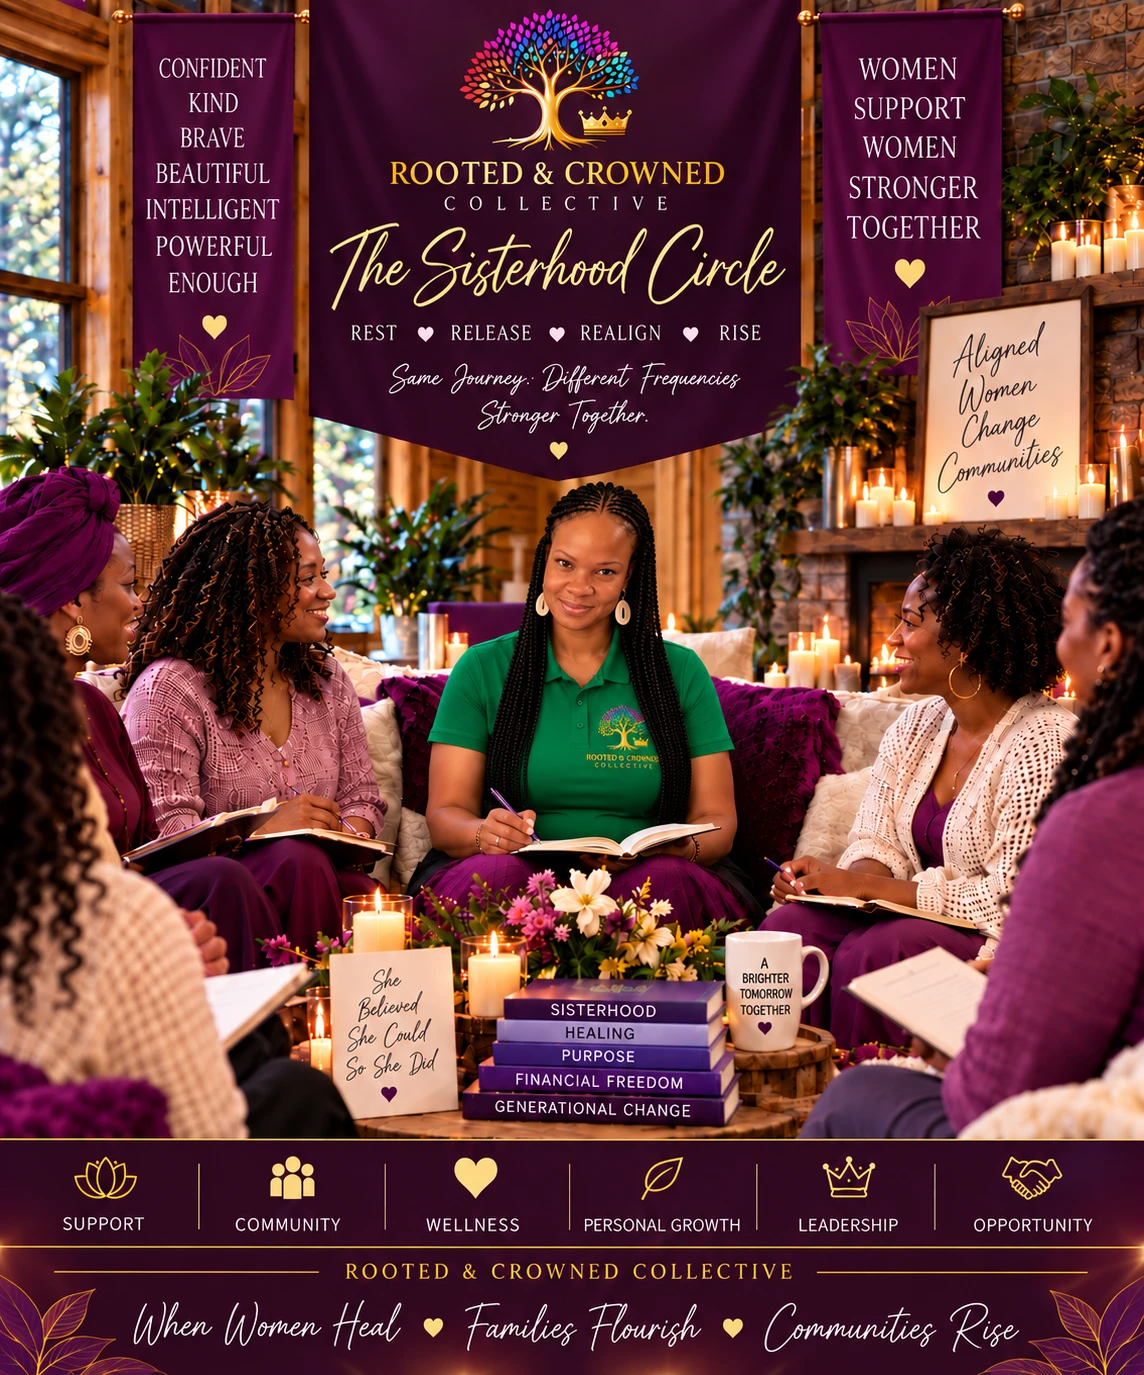
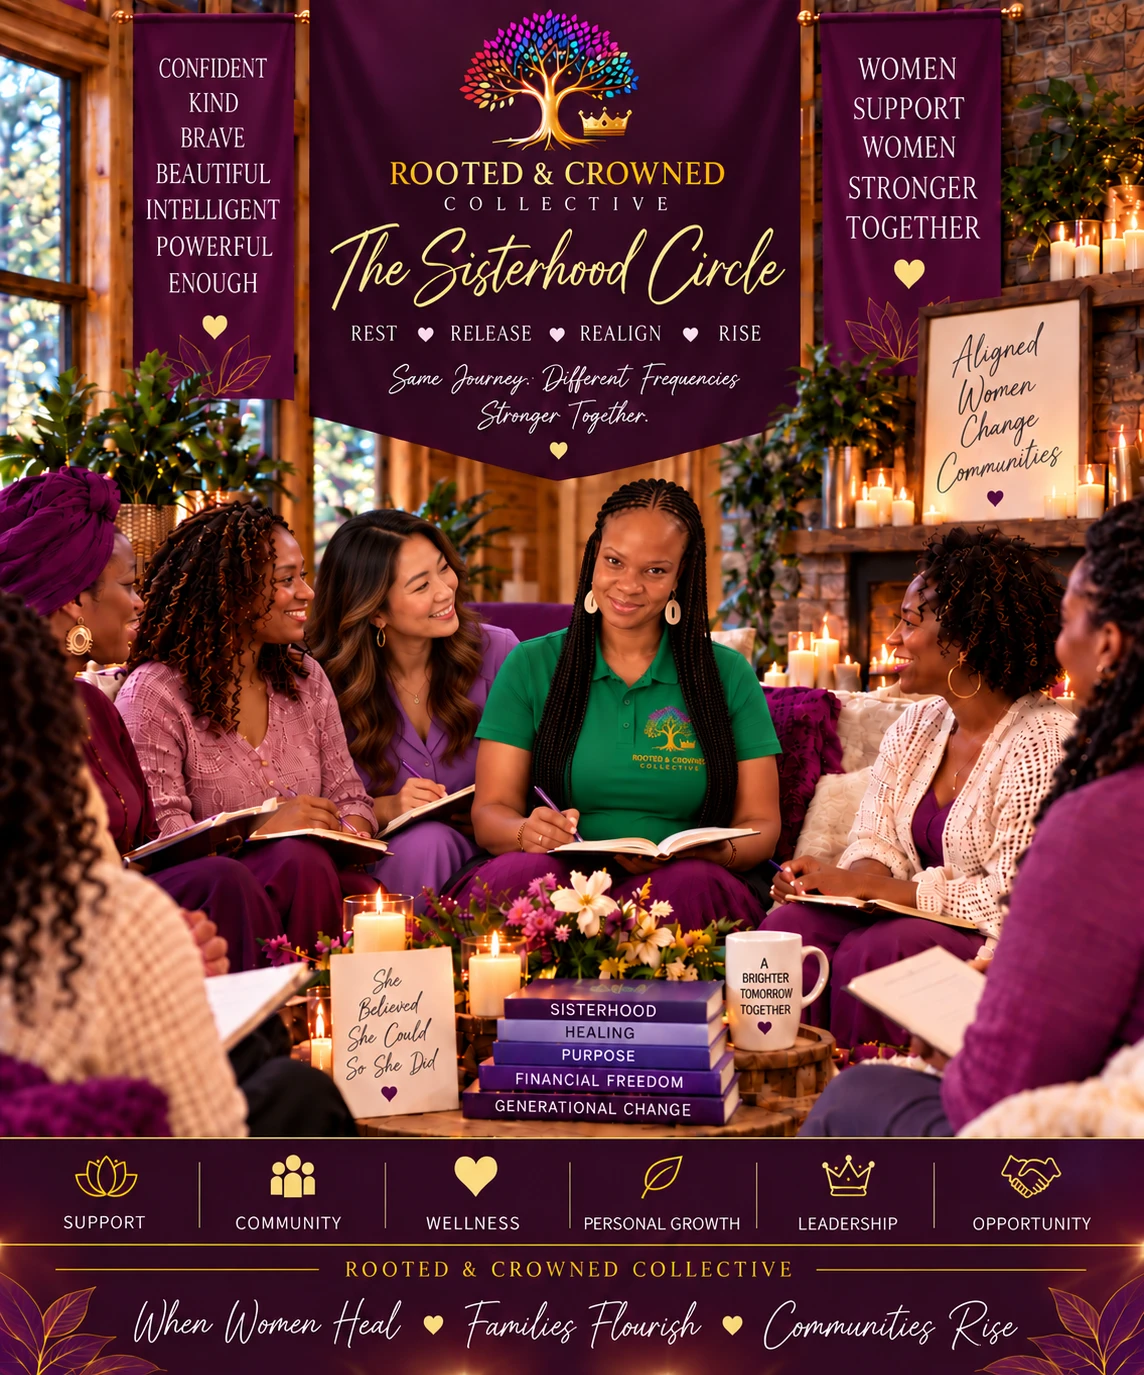
Replace Sisterhood Circle photo on Community page
Swap the Sisterhood Circle branch photo for the new cabin-lounge
version and update alt text to match its content (Confident/Kind/
Brave/Beautiful/Intelligent/Powerful/Enough banner, She Believed She
Could sign, Sisterhood/Healing/Purpose/Financial Freedom/Generational
Change books).

diff --git a/public/index.html b/public/index.html
@@ -2045,7 +2045,7 @@ details.course-mod summary::-webkit-details-marker{display:none}
         <p class="script">Same Journey. Different Frequencies. Stronger Together.</p>
       </div>
       <div style="display:grid;gap:22px">
-        <img class="media media--frame" src="assets/sisterhood-circle.webp" alt="The Rooted and Crowned Collective Sisterhood Circle: women journaling together in a candlelit lounge beneath banners reading Rest, Release, Realign, Rise, Same Journey, Different Frequencies, Stronger Together, and Women Support Women, Stronger Together. A sign reads Aligned Women Change Communities. Below: Support, Community, Wellness, Personal Growth, Leadership, Opportunity. When Women Heal, Families Flourish, Communities Rise." width="1144" height="1375" loading="lazy" style="max-width:520px">
+        <img class="media media--frame" src="assets/sisterhood-circle.webp" alt="The Rooted and Crowned Collective Sisterhood Circle: six women journaling together in a candlelit cabin lounge beneath banners reading Confident, Kind, Brave, Beautiful, Intelligent, Powerful, Enough, and Women Support Women, Stronger Together. A sign reads Aligned Women Change Communities, and another reads She Believed She Could So She Did, beside books titled Sisterhood, Healing, Purpose, Financial Freedom, Generational Change. Below: Support, Community, Wellness, Personal Growth, Leadership, Opportunity. When Women Heal, Families Flourish, Communities Rise." width="1144" height="1375" loading="lazy" style="max-width:520px">
         <div class="seq"><span>REST</span><i>·</i><span>RELEASE</span><i>·</i><span>REALIGN</span><i>·</i><span>RISE</span></div>
         <p class="lede">A circle for women who are healing, growing and building, together.</p>
         <div class="tags"><span class="tag">Support</span><span class="tag">Community</span><span class="tag">Wellness</span><span class="tag">Personal Growth</span><span class="tag">Leadership</span><span class="tag">Opportunity</span></div>
